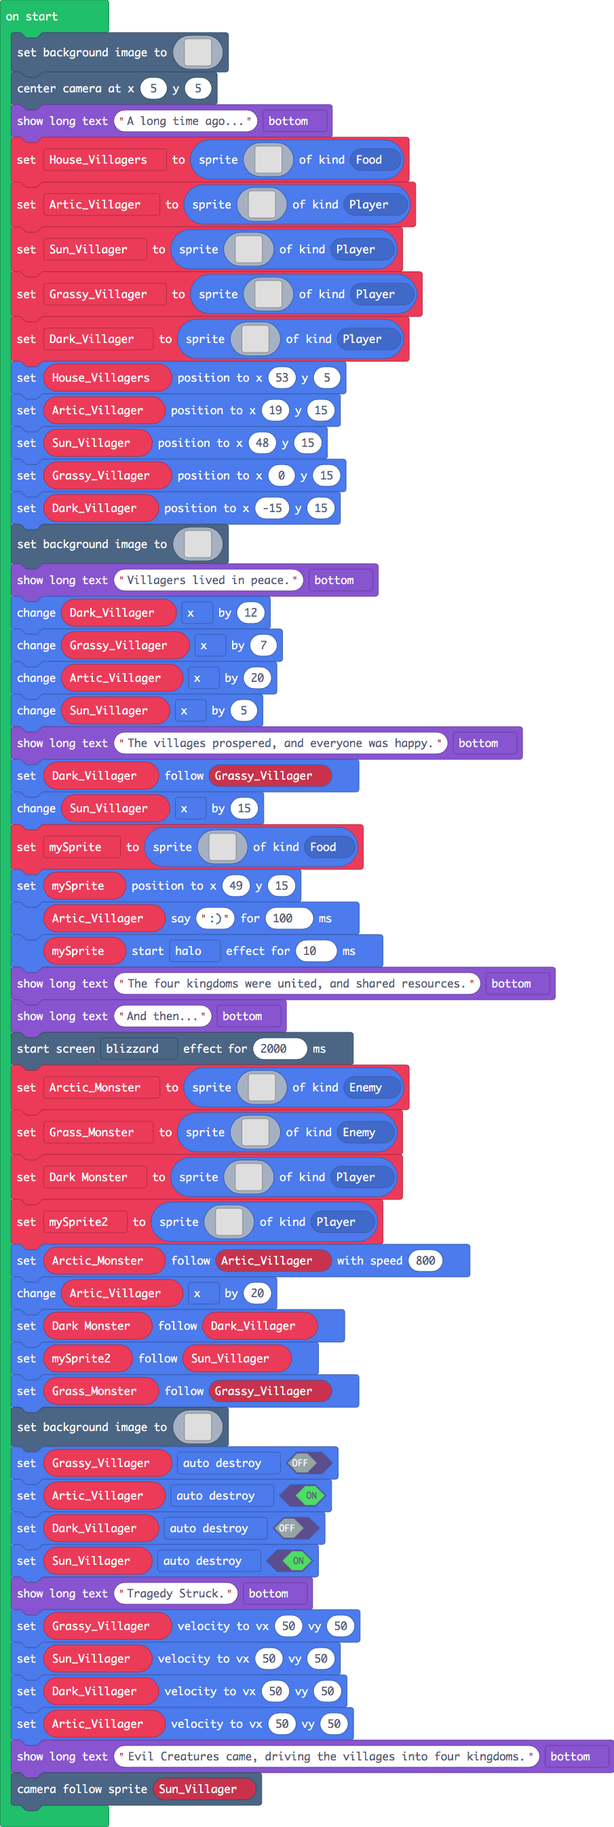
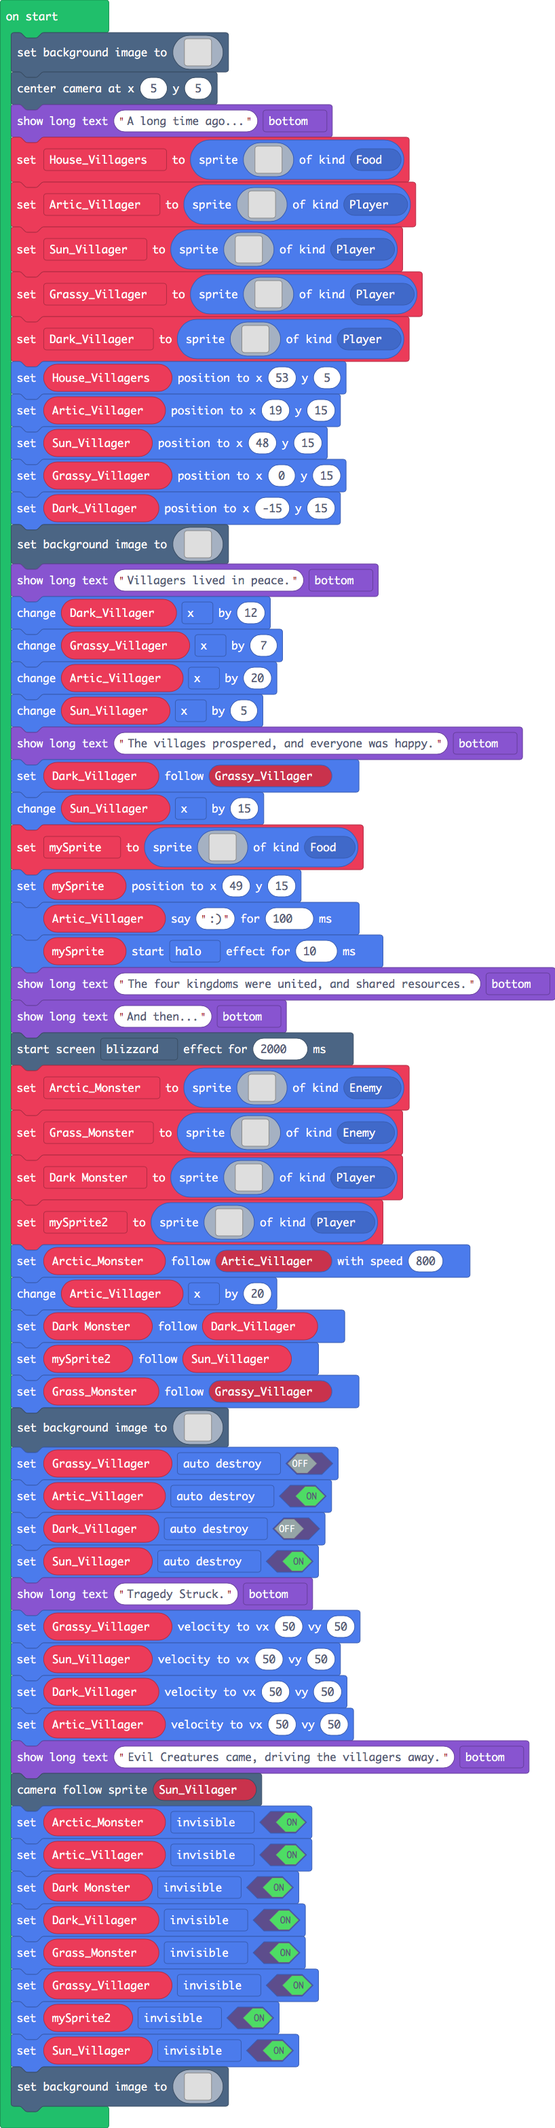
Update main.blocks, main.ts

diff --git a/main.ts b/main.ts
@@ -654,5 +654,135 @@ Grassy_Villager.setVelocity(50, 50)
 Sun_Villager.setVelocity(50, 50)
 Dark_Villager.setVelocity(50, 50)
 Artic_Villager.setVelocity(50, 50)
-game.showLongText("Evil Creatures came, driving the villages into four kingdoms.", DialogLayout.Bottom)
+game.showLongText("Evil Creatures came, driving the villagers away.", DialogLayout.Bottom)
 scene.cameraFollowSprite(Sun_Villager)
+Arctic_Monster.setFlag(SpriteFlag.Invisible, true)
+Artic_Villager.setFlag(SpriteFlag.Invisible, true)
+Dark_Monster.setFlag(SpriteFlag.Invisible, true)
+Dark_Villager.setFlag(SpriteFlag.Invisible, true)
+Grass_Monster.setFlag(SpriteFlag.Invisible, true)
+Grassy_Villager.setFlag(SpriteFlag.Invisible, true)
+mySprite2.setFlag(SpriteFlag.Invisible, true)
+Sun_Villager.setFlag(SpriteFlag.Invisible, true)
+scene.setBackgroundImage(img`
+. . . . . . . . . . . . . . . . . . . . . . . . . . . . . . . . . . . . . . . . . . . . . . . . . . . . . . . . . . . . . . . . . . . . . . . . . . . . . . . . . . . . . . . . . . . . . . . . . . . . . . . . . . . . . . . . . . . . . . . . . . . . . . . . . . . . . . . . . . . . . . . . . . . . . . . . . . . . . . . . 
+. . . . . . . . . . . . . . . . . . . . . . . . . . . . . . . . . . . . . . . . . . . . . . . . . . . . . . . . . . . . . . . . . . . . . . . . . . . . . . . . . . . . . . . . . . . . . . . . . . . . . . . . . . . . . . . . . . . . . . . . . . . . . . . . . . . . . . . . . . . . . . . . . . . . . . . . . . . . . . . . 
+. . . . . . . . . . . . . . . . . . . . . . . . . . . . . . . . . . . . . . . . . . . . . . . . . . . . . . . . . . . . . . . . . . . . . . . . . . . . . . . . . . . . . . . . . . . . . . . . . . . . . . . . . . . . . . . . . . . . . . . . . . . . . . . . . . . . . . . . . . . . . . . . . . . . . . . . . . . . . . . . 
+. . . . . . . . . . . . . . . . . . . . . . . . . . . . . . . . . . . . . . . . . . . . . . . . . . . . . . . . . . . . . . . . . . . . . . . . . . . . . . . . . . . . . . . . . . . . . . . . . . . . . . . . . . . . . . . . . . . . . . . . . . . . . . . . . . . . . . . . . . . . . . . . . . . . . . . . . . . . . . . . 
+. . . . . . . . . . . . . . . . . . . . . . . . . . . . . . . . . . . . . . . . . . . . . . . . . . . . . . . . . . . . . . . . . . . . . . . . . . . . . . . . . . . . . . . . . . . . . . . . . . . . . . . . . . . . . . . . . . . . . . . . . . . . . . . . . . . . . . . . . . . . . . . . . . . . . . . . . . . . . . . . 
+. . . . . . . . . . . . . . . . . . . . . . . . . . . . . . . . . . . . . . . . . . . . . . . . . . . . . . . . . . . . . . . . . . . . . . . . . . . . . . . . . . . . . . . . . . . . . . . . . . . . . . . . . . . . . . . . . . . . . . . . . . . . . . . . . . . . . . . . . . . . . . . . . . . . . . . . . . . . . . . . 
+. . . . . . . . . . . . . . . . . . . . . . . . . . . . . . . . . . . . . . . . . . . . . . . . . . . . . . . . . . . . . . . . . . . . . . . . . . . . . . . . . . . . . . . . . . . . . . . . . . . . . . . . . . . . . . . . . . . . . . . . . . . . . . . . . . . . . . . . . . . . . . . . . . . . . . . . . . . . . . . . 
+. . . . . . . . . . . . . . . . . . . . . . . . . . . . . . . . . . . . . . . . . . . . . . . . . . . . . . . . . . . . . . . . . . . . . . . . . . . . . . . . . . . . . . . . . . . . . . . . . . . . . . . . . . . . . . . . . . . . . . . . . . . . . . . . . . . . . . . . . . . . . . . . . . . . . . . . . . . . . . . . 
+. . . . . . . . . . . . . . . . . . . . . . . . . . . . . . . . . . . . . . . . . . . . . . . . . . . . . . . . . . . . . . . . . . . . . . . . . . . . . . . . . . . . . . . . . . . . . . . . . . . . . . . . . . . . . . . . . . . . . . . . . . . . . . . . . . . . . . . . . . . . . . . . . . . . . . . . . . . . . . . . 
+. . . . . . . . . . . . . . . . . . . . . . . . . . . . . . . . . . . . . . . . . . . . . . . . . . . . . . . . . . . . . . . . . . . . . . . . . . . . . . . . . . . . . . . . . . . . . . . . . . . . . . . . . . . . . . . . . . . . . . . . . . . . . . . . . . . . . . . . . . . . . . . . . . . . . . . . . . . . . . . . 
+. . . . . . . . . . . . . . . . . . . . . . . . . . . . . . . . . . . . . . . . . . . . . . . . . . . . . . . . . . . . . . . . . . . . . . . . . . . . . . . . . . . . . . . . . . . . . . . . . . . . . . . . . . . . . . . . . . . . . . . . . . . . . . . . . . . . . . . . . . . . . . . . . . . . . . . . . . . . . . . . 
+. . . . . . . . . . . . . . . . . . . . . . . . . . . . . . . . . . . . . . . . . . . . . . . . . . . . . . . . . . . . . . . . . . . . . . . . . . . . . . . . . . . . . . . . . . . . . . . . . . . . . . . . . . . . . . . . . . . . . . . . . . . . . . . . . . . . . . . . . . . . . . . . . . . . . . . . . . . . . . . . 
+. . . . . . . . . . . . . . . . . . . . . . . . . . . . . . . . . . . . . . . . . . . . . . . . . . . . . . . . . . . . . . . . . . . . . . . . . . . . . . . . . . . . . . . . . . . . . . . . . . . . . . . . . . . . . . . . . . . . . . . . . . . . . . . . . . . . . . . . . . . . . . . . . . . . . . . . . . . . . . . . 
+. . . . . . . . . . . . . . . . . . . . . . . . . . . . . . . . . . . . . . . . . . . . . . . . . . . . . . . . . . . . . . . . . . . . . . . . . . . . . . . . . . . . . . . . . . . . . . . . . . . . . . . . . . . . . . . . . . . . . . . . . . . . . . . . . . . . . . . . . . . . . . . . . . . . . . . . . . . . . . . . 
+. . . . . . . . . . . . . . . . . . . . . . . . . . . . . . . . . . . . . . . . . . . . . . . . . . . . . . . . . . . . . . . . . . . . . . . . . . . . . . . . . . . . . . . . . . . . . . . . . . . . . . . . . . . . . . . . . . . . . . . . . . . . . . . . . . . . . . . . . . . . . . . . . . . . . . . . . . . . . . . . 
+. . . . . . . . . . . . . . . . . . . . . . . . . . . . . . . . . . . . . . . . . . . . . . . . . . . . . . . . . . . . . . . . . . . . . . . . . . . . . . . . . . . . . . . . . . . . . . . . . . . . . . . . . . . . . . . . . . . . . . . . . . . . . . . . . . . . . . . . . . . . . . . . . . . . . . . . . . . . . . . . 
+. . . . . . . . . . . . . . . . . . . . . . . . . . . . . . . . . . . . . . . . . . . . . . . . . . . . . . . . . . . . . . . . . . . . . . . . . . . . . . . . . . . . . . . . . . . . . . . . . . . . . . . . . . . . . . . . . . . . . . . . . . . . . . . . . . . . . . . . . . . . . . . . . . . . . . . . . . . . . . . . 
+. . . . . . . . . . . . . . . . . . . . . . . . . . . . . . . . . . . . . . . . . . . . . . . . . . . . . . . . . . . . . . . . . . . . . . . . . . . . . . . . . . . . . . . . . . . . . . . . . . . . . . . . . . . . . . . . . . . . . . . . . . . . . . . . . . . . . . . . . . . . . . . . . . . . . . . . . . . . . . . . 
+. . . . . . . . . . . . . . . . . . . . . . . . . . . . . . . . . . . . . . . . . . . . . . . . . . . . . . . . . . . . . . . . . . . . . . . . . . . . . . . . . . . . . . . . . . . . . . . . . . . . . . . . . . . . . . . . . . . . . . . . . . . . . . . . . . . . . . . . . . . . . . . . . . . . . . . . . . . . . . . . 
+. . . . . . . . . . . . . . . . . . . . . . . . . . . . . . . . . . . . . . . . . . . . . . . . . . . . . . . . . . . . . . . . . . . . . . . . . . . . . . . . . . . . . . . . . . . . . . . . . . . . . . . . . . . . . . . . . . . . . . . . . . . . . . . . . . . . . . . . . . . . . . . . . . . . . . . . . . . . . . . . 
+. . . . . . . . . . . . . . . . . . . . . . . . . . . . . . . . . . . . . . . . . . . . . . . . . . . . . . . . . . . . . . . . . . . . . . . . . . . . . . . . . . . . . . . . . . . . . . . . . . . . . . . . . . . . . . . . . . . . . . . . . . . . . . . . . . . . . . . . . . . . . . . . . . . . . . . . . . . . . . . . 
+. . . . . . . . . . . . . . . . . . . . . . . . . . . . . . . . . . . . . . . . . . . . . . . . . . . . . . . . . . . . . . . . . . . . . . . . . . . . . . . . . . . . . . . . . . . . . . . . . . . . . . . . . . . . . . . . . . . . . . . . . . . . . . . . . . . . . . . . . . . . . . . . . . . . . . . . . . . . . . . . 
+. . . . . . . . . . . . . . . . . . . . . . . . . . . . . . . . . . . . . . . . . . . . . . . . . . . . . . . . . . . . . . . . . . . . . . . . . . . . . . . . . . . . . . . . . . . . . . . . . . . . . . . . . . . . . . . . . . . . . . . . . . . . . . . . . . . . . . . . . . . . . . . . . . . . . . . . . . . . . . . . 
+. . . . . . . . . . . . . . . . . . . . . . . . . . . . . . . . . . . . . . . . . . . . . . . . . . . . . . . . . . . . . . . . . . . . . . . . . . . . . . . . . . . . . . . . . . . . . . . . . . . . . . . . . . . . . . . . . . . . . . . . . . . . . . . . . . . . . . . . . . . . . . . . . . . . . . . . . . . . . . . . 
+. . . . . . . . . . . . . . . . . . . . . . . . . . . . . . . . . . . . . . . . . . . . . . . . . . . . . . . . . . . . . . . . . . . . . . . . . . . . . . . . . . . . . . . . . . . . . . . . . . . . . . . . . . . . . . . . . . . . . . . . . . . . . . . . . . . . . . . . . . . . . . . . . . . . . . . . . . . . . . . . 
+. . . . . . . . . . . . . . . . . . . . . . . . . . . . . . . . . . . . . . . . . . . . . . . . . . . . . . . . . . . . . . . . . . . . . . . . . . . . . . . . . . . . . . . . . . . . . . . . . . . . . . . . . . . . . . . . . . . . . . . . . . . . . . . . . . . . . . . . . . . . . . . . . . . . . . . . . . . . . . . . 
+. . . . . . . . . . . . . . . . . . . . . . . . . . . . . . . . . . . . . . . . . . . . . . . . . . . . . . . . . . . . . . . . . . . . . . . . . . . . . . . . . . . . . . . . . . . . . . . . . . . . . . . . . . . . . . . . . . . . . . . . . . . . . . . . . . . . . . . . . . . . . . . . . . . . . . . . . . . . . . . . 
+. . . . . . . . . . . . . . . . . . . . . . . . . . . . . . . . . . . . . . . . . . . . . . . . . . . . . . . . . . . . . . . . . . . . . . . . . . . . . . . . . . . . . . . . . . . . . . . . . . . . . . . . . . . . . . . . . . . . . . . . . . . . . . . . . . . . . . . . . . . . . . . . . . . . . . . . . . . . . . . . 
+. . . . . . . . . . . . . . . . . . . . . . . . . . . . . . . . . . . . . . . . . . . . . . . . . . . . . . . . . . . . . . . . . . . . . . . . . . . . . . . . . . . . . . . . . . . . . . . . . . . . . . . . . . . . . . . . . . . . . . . . . . . . . . . . . . . . . . . . . . . . . . . . . . . . . . . . . . . . . . . . 
+. . . . . . . . . . . . . . . . . . . . . . . . . . . . . . . . . . . . . . . . . . . . . . . . . . . . . . . . . . . . . . . . . . . . . . . . . . . . . . . . . . . . . . . . . . . . . . . . . . . . . . . . . . . . . . . . . . . . . . . . . . . . . . . . . . . . . . . . . . . . . . . . . . . . . . . . . . . . . . . . 
+. . . . . . . . . . . . . . . . . . . . . . . . . . . . . . . . . . . . . . . . . . . . . . . . . . . . . . . . . . . . . . . . . . . . . . . . . . . . . . . . . . . . . . . . . . . . . . . . . . . . . . . . . . . . . . . . . . . . . . . . . . . . . . . . . . . . . . . . . . . . . . . . . . . . . . . . . . . . . . . . 
+. . . . . . . . . . . . . . . . . . . . . . . . . . . . . . . . . . . . . . . . . . . . . . . . . . . . . . . . . . . . . . . . . . . . . . . . . . . . . . . . . . . . . . . . . . . . . . . . . . . . . . . . . . . . . . . . . . . . . . . . . . . . . . . . . . . . . . . . . . . . . . . . . . . . . . . . . . . . . . . . 
+. . . . . . . . . . . . . . . . . . . . . . . . . . . . . . . . . . . . . . . . . . . . . . . . . . . . . . . . . . . . . . . . . . . . . . . . . . . . . . . . . . . . . . . . . . . . . . . . . . . . . . . . . . . . . . . . . . . . . . . . . . . . . . . . . . . . . . . . . . . . . . . . . . . . . . . . . . . . . . . . 
+. . . . . . . . . . . . . . . . . . . . . . . . . . . . . . . . . . . . . . . . . . . . . . . . . . . . . . . . . . . . . . . . . . . . . . . . . . . . . . . . . . . . . . . . . . . . . . . . . . . . . . . . . . . . . . . . . . . . . . . . . . . . . . . . . . . . . . . . . . . . . . . . . . . . . . . . . . . . . . . . 
+. . . . . . . . . . . . . . . . . . . . . . . . . . . . . . . . . . . . . . . . . . . . . . . . . . . . . . . . . . . . . . . . . . . . . . . . . . . . . . . . . . . . . . . . . . . . . . . . . . . . . . . . . . . . . . . . . . . . . . . . . . . . . . . . . . . . . . . . . . . . . . . . . . . . . . . . . . . . . . . . 
+. . . . . . . . . . . . . . . . . . . . . . . . . . . . . . . . . . . . . . . . . . . . . . . . . . . . . . . . . . . . . . . . . . . . . . . . . . . . . . . . . . . . . . . . . . . . . . . . . . . . . . . . . . . . . . . . . . . . . . . . . . . . . . . . . . . . . . . . . . . . . . . . . . . . . . . . . . . . . . . . 
+. . . . . . . . . . . . . . . . . . . . . . . . . . . . . . . . . . . . . . . . . . . . . . . . . . . . . . . . . . . . . . . . . . . . . . . . . . . . . . . . . . . . . . . . . . . . . . . . . . . . . . . . . . . . . . . . . . . . . . . . . . . . . . . . . . . . . . . . . . . . . . . . . . . . . . . . . . . . . . . . 
+. . . . . . . . . . . . . . . . . . . . . . . . . . . . . . . . . . . . . . . . . . . . . . . . . . . . . . . . . . . . . . . . . . . . . . . . . . . . . . . . . . . . . . . . . . . . . . . . . . . . . . . . . . . . . . . . . . . . . . . . . . . . . . . . . . . . . . . . . . . . . . . . . . . . . . . . . . . . . . . . 
+. . . . . . . . . . . . . . . . . . . . . . . . . . . . . . . . . . . . . . . . . . . . . . . . . . . . . . . . . . . . . . . . . . . . . . . . . . . . . . . . . . . . . . . . . . . . . . . . . . . . . . . . . . . . . . . . . . . . . . . . . . . . . . . . . . . . . . . . . . . . . . . . . . . . . . . . . . . . . . . . 
+. . . . . . . . . . . . . . . . . . . . . . . . . . . . . . . . . . . . . . . . . . . . . . . . . . . . . . . . . . . . . . . . . . . . . . . . . . . . . . . . . . . . . . . . . . . . . . . . . . . . . . . . . . . . . . . . . . . . . . . . . . . . . . . . . . . . . . . . . . . . . . . . . . . . . . . . . . . . . . . . 
+. . . . . . . . . . . . . . . . . . . . . . . . . . . . . . . . . . . . . . . . . . . . . . . . . . . . . . . . . . . . . . . . . . . . . . . . . . . . . . . . . . . . . . . . . . . . . . . . . . . . . . . . . . . . . . . . . . . . . . . . . . . . . . . . . . . . . . . . . . . . . . . . . . . . . . . . . . . . . . . . 
+. . . . . . . . . . . . . . . . . . . . . . . . . . . . . . . . . . . . . . . . . . . . . . . . . . . . . . . . . . . . . . . . . . . . . . . . . . . . . . . . . . . . . . . . . . . . . . . . . . . . . . . . . . . . . . . . . . . . . . . . . . . . . . . . . . . . . . . . . . . . . . . . . . . . . . . . . . . . . . . . 
+. . . . . . . . . . . . . . . . . . . . . . . . . . . . . . . . . . . . . . . . . . . . . . . . . . . . . . . . . . . . . . . . . . . . . . . . . . . . . . . . . . . . . . . . . . . . . . . . . . . . . . . . . . . . . . . . . . . . . . . . . . . . . . . . . . . . . . . . . . . . . . . . . . . . . . . . . . . . . . . . 
+. . . . . . . . . . . . . . . . . . . . . . . . . . . . . . . . . . . . . . . . . . . . . . . . . . . . . . . . . . . . . . . . . . . . . . . . . . . . . . . . . . . . . . . . . . . . . . . . . . . . . . . . . . . . . . . . . . . . . . . . . . . . . . . . . . . . . . . . . . . . . . . . . . . . . . . . . . . . . . . . 
+. . . . . . . . . . . . . . . . . . . . . . . . . . . . . . . . . . . . . . . . . . . . . . . . . . . . . . . . . . . . . . . . . . . . . . . . . . . . . . . . . . . . . . . . . . . . . . . . . . . . . . . . . . . . . . . . . . . . . . . . . . . . . . . . . . . . . . . . . . . . . . . . . . . . . . . . . . . . . . . . 
+. . . . . . . . . . . . . . . . . . . . . . . . . . . . . . . . . . . . . . . . . . . . . . . . . . . . . . . . . . . . . . . . . . . . . . . . . . . . . . . . . . . . . . . . . . . . . . . . . . . . . . . . . . . . . . . . . . . . . . . . . . . . . . . . . . . . . . . . . . . . . . . . . . . . . . . . . . . . . . . . 
+. . . . . . . . . . . . . . . . . . . . . . . . . . . . . . . . . . . . . . . . . . . . . . . . . . . . . . . . . . . . . . . . . . . . . . . . . . . . . . . . . . . . . . . . . . . . . . . . . . . . . . . . . . . . . . . . . . . . . . . . . . . . . . . . . . . . . . . . . . . . . . . . . . . . . . . . . . . . . . . . 
+. . . . . . . . . . . . . . . . . . . . . . . . . . . . . . . . . . . . . . . . . . . . . . . . . . . . . . . . . . . . . . . . . . . . . . . . . . . . . . . . . . . . . . . . . . . . . . . . . . . . . . . . . . . . . . . . . . . . . . . . . . . . . . . . . . . . . . . . . . . . . . . . . . . . . . . . . . . . . . . . 
+. . . . . . . . . . . . . . . . . . . . . . . . . . . . . . . . . . . . . . . . . . . . . . . . . . . . . . . . . . . . . . . . . . . . . . . . . . . . . . . . . . . . . . . . . . . . . . . . . . . . . . . . . . . . . . . . . . . . . . . . . . . . . . . . . . . . . . . . . . . . . . . . . . . . . . . . . . . . . . . . 
+. . . . . . . . . . . . . . . . . . . . . . . . . . . . . . . . . . . . . . . . . . . . . . . . . . . . . . . . . . . . . . . . . . . . . . . . . . . . . . . . . . . . . . . . . . . . . . . . . . . . . . . . . . . . . . . . . . . . . . . . . . . . . . . . . . . . . . . . . . . . . . . . . . . . . . . . . . . . . . . . 
+. . . . . . . . . . . . . . . . . . . . . . . . . . . . . . . . . . . . . . . . . . . . . . . . . . . . . . . . . . . . . . . . . . . . . . . . . . . . . . . . . . . . . . . . . . . . . . . . . . . . . . . . . . . . . . . . . . . . . . . . . . . . . . . . . . . . . . . . . . . . . . . . . . . . . . . . . . . . . . . . 
+. . . . . . . . . . . . . . . . . . . . . . . . . . . . . . . . . . . . . . . . . . . . . . . . . . . . . . . . . . . . . . . . . . . . . . . . . . . . . . . . . . . . . . . . . . . . . . . . . . . . . . . . . . . . . . . . . . . . . . . . . . . . . . . . . . . . . . . . . . . . . . . . . . . . . . . . . . . . . . . . 
+. . . . . . . . . . . . . . . . . . . . . . . . . . . . . . . . . . . . . . . . . . . . . . . . . . . . . . . . . . . . . . . . . . . . . . . . . . . . . . . . . . . . . . . . . . . . . . . . . . . . . . . . . . . . . . . . . . . . . . . . . . . . . . . . . . . . . . . . . . . . . . . . . . . . . . . . . . . . . . . . 
+. . . . . . . . . . . . . . . . . . . . . . . . . . . . . . . . . . . . . . . . . . . . . . . . . . . . . . . . . . . . . . . . . . . . . . . . . . . . . . . . . . . . . . . . . . . . . . . . . . . . . . . . . . . . . . . . . . . . . . . . . . . . . . . . . . . . . . . . . . . . . . . . . . . . . . . . . . . . . . . . 
+. . . . . . . . . . . . . . . . . . . . . . . . . . . . . . . . . . . . . . . . . . . . . . . . . . . . . . . . . . . . . . . . . . . . . . . . . . . . . . . . . . . . . . . . . . . . . . . . . . . . . . . . . . . . . . . . . . . . . . . . . . . . . . . . . . . . . . . . . . . . . . . . . . . . . . . . . . . . . . . . 
+. . . . . . . . . . . . . . . . . . . . . . . . . . . . . . . . . . . . . . . . . . . . . . . . . . . . . . . . . . . . . . . . . . . . . . . . . . . . . . . . . . . . . . . . . . . . . . . . . . . . . . . . . . . . . . . . . . . . . . . . . . . . . . . . . . . . . . . . . . . . . . . . . . . . . . . . . . . . . . . . 
+. . . . . . . . . . . . . . . . . . . . . . . . . . . . . . . . . . . . . . . . . . . . . . . . . . . . . . . . . . . . . . . . . . . . . . . . . . . . . . . . . . . . . . . . . . . . . . . . . . . . . . . . . . . . . . . . . . . . . . . . . . . . . . . . . . . . . . . . . . . . . . . . . . . . . . . . . . . . . . . . 
+. . . . . . . . . . . . . . . . . . . . . . . . . . . . . . . . . . . . . . . . . . . . . . . . . . . . . . . . . . . . . . . . . . . . . . . . . . . . . . . . . . . . . . . . . . . . . . . . . . . . . . . . . . . . . . . . . . . . . . . . . . . . . . . . . . . . . . . . . . . . . . . . . . . . . . . . . . . . . . . . 
+. . . . . . . . . . . . . . . . . . . . . . . . . . . . . . . . . . . . . . . . . . . . . . . . . . . . . . . . . . . . . . . . . . . . . . . . . . . . . . . . . . . . . . . . . . . . . . . . . . . . . . . . . . . . . . . . . . . . . . . . . . . . . . . . . . . . . . . . . . . . . . . . . . . . . . . . . . . . . . . . 
+. . . . . . . . . . . . . . . . . . . . . . . . . . . . . . . . . . . . . . . . . . . . . . . . . . . . . . . . . . . . . . . . . . . . . . . . . . . . . . . . . . . . . . . . . . . . . . . . . . . . . . . . . . . . . . . . . . . . . . . . . . . . . . . . . . . . . . . . . . . . . . . . . . . . . . . . . . . . . . . . 
+. . . . . . . . . . . . . . . . . . . . . . . . . . . . . . . . . . . . . . . . . . . . . . . . . . . . . . . . . . . . . . . . . . . . . . . . . . . . . . . . . . . . . . . . . . . . . . . . . . . . . . . . . . . . . . . . . . . . . . . . . . . . . . . . . . . . . . . . . . . . . . . . . . . . . . . . . . . . . . . . 
+. . . . . . . . . . . . . . . . . . . . . . . . . . . . . . . . . . . . . . . . . . . . . . . . . . . . . . . . . . . . . . . . . . . . . . . . . . . . . . . . . . . . . . . . . . . . . . . . . . . . . . . . . . . . . . . . . . . . . . . . . . . . . . . . . . . . . . . . . . . . . . . . . . . . . . . . . . . . . . . . 
+. . . . . . . . . . . . . . . . . . . . . . . . . . . . . . . . . . . . . . . . . . . . . . . . . . . . . . . . . . . . . . . . . . . . . . . . . . . . . . . . . . . . . . . . . . . . . . . . . . . . . . . . . . . . . . . . . . . . . . . . . . . . . . . . . . . . . . . . . . . . . . . . . . . . . . . . . . . . . . . . 
+. . . . . . . . . . . . . . . . . . . . . . . . . . . . . . . . . . . . . . . . . . . . . . . . . . . . . . . . . . . . . . . . . . . . . . . . . . . . . . . . . . . . . . . . . . . . . . . . . . . . . . . . . . . . . . . . . . . . . . . . . . . . . . . . . . . . . . . . . . . . . . . . . . . . . . . . . . . . . . . . 
+. . . . . . . . . . . . . . . . . . . . . . . . . . . . . . . . . . . . . . . . . . . . . . . . . . . . . . . . . . . . . . . . . . . . . . . . . . . . . . . . . . . . . . . . . . . . . . . . . . . . . . . . . . . . . . . . . . . . . . . . . . . . . . . . . . . . . . . . . . . . . . . . . . . . . . . . . . . . . . . . 
+. . . . . . . . . . . . . . . . . . . . . . . . . . . . . . . . . . . . . . . . . . . . . . . . . . . . . . . . . . . . . . . . . . . . . . . . . . . . . . . . . . . . . . . . . . . . . . . . . . . . . . . . . . . . . . . . . . . . . . . . . . . . . . . . . . . . . . . . . . . . . . . . . . . . . . . . . . . . . . . . 
+. . . . . . . . . . . . . . . . . . . . . . . . . . . . . . . . . . . . . . . . . . . . . . . . . . . . . . . . . . . . . . . . . . . . . . . . . . . . . . . . . . . . . . . . . . . . . . . . . . . . . . . . . . . . . . . . . . . . . . . . . . . . . . . . . . . . . . . . . . . . . . . . . . . . . . . . . . . . . . . . 
+. . . . . . . . . . . . . . . . . . . . . . . . . . . . . . . . . . . . . . . . . . . . . . . . . . . . . . . . . . . . . . . . . . . . . . . . . . . . . . . . . . . . . . . . . . . . . . . . . . . . . . . . . . . . . . . . . . . . . . . . . . . . . . . . . . . . . . . . . . . . . . . . . . . . . . . . . . . . . . . . 
+. . . . . . . . . . . . . . . . . . . . . . . . . . . . . . . . . . . . . . . . . . . . . . . . . . . . . . . . . . . . . . . . . . . . . . . . . . . . . . . . . . . . . . . . . . . . . . . . . . . . . . . . . . . . . . . . . . . . . . . . . . . . . . . . . . . . . . . . . . . . . . . . . . . . . . . . . . . . . . . . 
+. . . . . . . . . . . . . . . . . . . . . . . . . . . . . . . . . . . . . . . . . . . . . . . . . . . . . . . . . . . . . . . . . . . . . . . . . . . . . . . . . . . . . . . . . . . . . . . . . . . . . . . . . . . . . . . . . . . . . . . . . . . . . . . . . . . . . . . . . . . . . . . . . . . . . . . . . . . . . . . . 
+. . . . . . . . . . . . . . . . . . . . . . . . . . . . . . . . . . . . . . . . . . . . . . . . . . . . . . . . . . . . . . . . . . . . . . . . . . . . . . . . . . . . . . . . . . . . . . . . . . . . . . . . . . . . . . . . . . . . . . . . . . . . . . . . . . . . . . . . . . . . . . . . . . . . . . . . . . . . . . . . 
+. . . . . . . . . . . . . . . . . . . . . . . . . . . . . . . . . . . . . . . . . . . . . . . . . . . . . . . . . . . . . . . . . . . . . . . . . . . . . . . . . . . . . . . . . . . . . . . . . . . . . . . . . . . . . . . . . . . . . . . . . . . . . . . . . . . . . . . . . . . . . . . . . . . . . . . . . . . . . . . . 
+. . . . . . . . . . . . . . . . . . . . . . . . . . . . . . . . . . . . . . . . . . . . . . . . . . . . . . . . . . . . . . . . . . . . . . . . . . . . . . . . . . . . . . . . . . . . . . . . . . . . . . . . . . . . . . . . . . . . . . . . . . . . . . . . . . . . . . . . . . . . . . . . . . . . . . . . . . . . . . . . 
+. . . . . . . . . . . . . . . . . . . . . . . . . . . . . . . . . . . . . . . . . . . . . . . . . . . . . . . . . . . . . . . . . . . . . . . . . . . . . . . . . . . . . . . . . . . . . . . . . . . . . . . . . . . . . . . . . . . . . . . . . . . . . . . . . . . . . . . . . . . . . . . . . . . . . . . . . . . . . . . . 
+. . . . . . . . . . . . . . . . . . . . . . . . . . . . . . . . . . . . . . . . . . . . . . . . . . . . . . . . . . . . . . . . . . . . . . . . . . . . . . . . . . . . . . . . . . . . . . . . . . . . . . . . . . . . . . . . . . . . . . . . . . . . . . . . . . . . . . . . . . . . . . . . . . . . . . . . . . . . . . . . 
+. . . . . . . . . . . . . . . . . . . . . . . . . . . . . . . . . . . . . . . . . . . . . . . . . . . . . . . . . . . . . . . . . . . . . . . . . . . . . . . . . . . . . . . . . . . . . . . . . . . . . . . . . . . . . . . . . . . . . . . . . . . . . . . . . . . . . . . . . . . . . . . . . . . . . . . . . . . . . . . . 
+. . . . . . . . . . . . . . . . . . . . . . . . . . . . . . . . . . . . . . . . . . . . . . . . . . . . . . . . . . . . . . . . . . . . . . . . . . . . . . . . . . . . . . . . . . . . . . . . . . . . . . . . . . . . . . . . . . . . . . . . . . . . . . . . . . . . . . . . . . . . . . . . . . . . . . . . . . . . . . . . 
+. . . . . . . . . . . . . . . . . . . . . . . . . . . . . . . . . . . . . . . . . . . . . . . . . . . . . . . . . . . . . . . . . . . . . . . . . . . . . . . . . . . . . . . . . . . . . . . . . . . . . . . . . . . . . . . . . . . . . . . . . . . . . . . . . . . . . . . . . . . . . . . . . . . . . . . . . . . . . . . . 
+. . . . . . . . . . . . . . . . . . . . . . . . . . . . . . . . . . . . . . . . . . . . . . . . . . . . . . . . . . . . . . . . . . . . . . . . . . . . . . . . . . . . . . . . . . . . . . . . . . . . . . . . . . . . . . . . . . . . . . . . . . . . . . . . . . . . . . . . . . . . . . . . . . . . . . . . . . . . . . . . 
+. . . . . . . . . . . . . . . . . . . . . . . . . . . . . . . . . . . . . . . . . . . . . . . . . . . . . . . . . . . . . . . . . . . . . . . . . . . . . . . . . . . . . . . . . . . . . . . . . . . . . . . . . . . . . . . . . . . . . . . . . . . . . . . . . . . . . . . . . . . . . . . . . . . . . . . . . . . . . . . . 
+. . . . . . . . . . . . . . . . . . . . . . . . . . . . . . . . . . . . . . . . . . . . . . . . . . . . . . . . . . . . . . . . . . . . . . . . . . . . . . . . . . . . . . . . . . . . . . . . . . . . . . . . . . . . . . . . . . . . . . . . . . . . . . . . . . . . . . . . . . . . . . . . . . . . . . . . . . . . . . . . 
+. . . . . . . . . . . . . . . . . . . . . . . . . . . . . . . . . . . . . . . . . . . . . . . . . . . . . . . . . . . . . . . . . . . . . . . . . . . . . . . . . . . . . . . . . . . . . . . . . . . . . . . . . . . . . . . . . . . . . . . . . . . . . . . . . . . . . . . . . . . . . . . . . . . . . . . . . . . . . . . . 
+. . . . . . . . . . . . . . . . . . . . . . . . . . . . . . . . . . . . . . . . . . . . . . . . . . . . . . . . . . . . . . . . . . . . . . . . . . . . . . . . . . . . . . . . . . . . . . . . . . . . . . . . . . . . . . . . . . . . . . . . . . . . . . . . . . . . . . . . . . . . . . . . . . . . . . . . . . . . . . . . 
+. . . . . . . . . . . . . . . . . . . . . . . . . . . . . . . . . . . . . . . . . . . . . . . . . . . . . . . . . . . . . . . . . . . . . . . . . . . . . . . . . . . . . . . . . . . . . . . . . . . . . . . . . . . . . . . . . . . . . . . . . . . . . . . . . . . . . . . . . . . . . . . . . . . . . . . . . . . . . . . . 
+. . . . . . . . . . . . . . . . . . . . . . . . . . . . . . . . . . . . . . . . . . . . . . . . . . . . . . . . . . . . . . . . . . . . . . . . . . . . . . . . . . . . . . . . . . . . . . . . . . . . . . . . . . . . . . . . . . . . . . . . . . . . . . . . . . . . . . . . . . . . . . . . . . . . . . . . . . . . . . . . 
+. . . . . . . . . . . . . . . . . . . . . . . . . . . . . . . . . . . . . . . . . . . . . . . . . . . . . . . . . . . . . . . . . . . . . . . . . . . . . . . . . . . . . . . . . . . . . . . . . . . . . . . . . . . . . . . . . . . . . . . . . . . . . . . . . . . . . . . . . . . . . . . . . . . . . . . . . . . . . . . . 
+. . . . . . . . . . . . . . . . . . . . . . . . . . . . . . . . . . . . . . . . . . . . . . . . . . . . . . . . . . . . . . . . . . . . . . . . . . . . . . . . . . . . . . . . . . . . . . . . . . . . . . . . . . . . . . . . . . . . . . . . . . . . . . . . . . . . . . . . . . . . . . . . . . . . . . . . . . . . . . . . 
+. . . . . . . . . . . . . . . . . . . . . . . . . . . . . . . . . . . . . . . . . . . . . . . . . . . . . . . . . . . . . . . . . . . . . . . . . . . . . . . . . . . . . . . . . . . . . . . . . . . . . . . . . . . . . . . . . . . . . . . . . . . . . . . . . . . . . . . . . . . . . . . . . . . . . . . . . . . . . . . . 
+. . . . . . . . . . . . . . . . . . . . . . . . . . . . . . . . . . . . . . . . . . . . . . . . . . . . . . . . . . . . . . . . . . . . . . . . . . . . . . . . . . . . . . . . . . . . . . . . . . . . . . . . . . . . . . . . . . . . . . . . . . . . . . . . . . . . . . . . . . . . . . . . . . . . . . . . . . . . . . . . 
+. . . . . . . . . . . . . . . . . . . . . . . . . . . . . . . . . . . . . . . . . . . . . . . . . . . . . . . . . . . . . . . . . . . . . . . . . . . . . . . . . . . . . . . . . . . . . . . . . . . . . . . . . . . . . . . . . . . . . . . . . . . . . . . . . . . . . . . . . . . . . . . . . . . . . . . . . . . . . . . . 
+. . . . . . . . . . . . . . . . . . . . . . . . . . . . . . . . . . . . . . . . . . . . . . . . . . . . . . . . . . . . . . . . . . . . . . . . . . . . . . . . . . . . . . . . . . . . . . . . . . . . . . . . . . . . . . . . . . . . . . . . . . . . . . . . . . . . . . . . . . . . . . . . . . . . . . . . . . . . . . . . 
+. . . . . . . . . . . . . . . . . . . . . . . . . . . . . . . . . . . . . . . . . . . . . . . . . . . . . . . . . . . . . . . . . . . . . . . . . . . . . . . . . . . . . . . . . . . . . . . . . . . . . . . . . . . . . . . . . . . . . . . . . . . . . . . . . . . . . . . . . . . . . . . . . . . . . . . . . . . . . . . . 
+. . . . . . . . . . . . . . . . . . . . . . . . . . . . . . . . . . . . . . . . . . . . . . . . . . . . . . . . . . . . . . . . . . . . . . . . . . . . . . . . . . . . . . . . . . . . . . . . . . . . . . . . . . . . . . . . . . . . . . . . . . . . . . . . . . . . . . . . . . . . . . . . . . . . . . . . . . . . . . . . 
+. . . . . . . . . . . . . . . . . . . . . . . . . . . . . . . . . . . . . . . . . . . . . . . . . . . . . . . . . . . . . . . . . . . . . . . . . . . . . . . . . . . . . . . . . . . . . . . . . . . . . . . . . . . . . . . . . . . . . . . . . . . . . . . . . . . . . . . . . . . . . . . . . . . . . . . . . . . . . . . . 
+. . . . . . . . . . . . . . . . . . . . . . . . . . . . . . . . . . . . . . . . . . . . . . . . . . . . . . . . . . . . . . . . . . . . . . . . . . . . . . . . . . . . . . . . . . . . . . . . . . . . . . . . . . . . . . . . . . . . . . . . . . . . . . . . . . . . . . . . . . . . . . . . . . . . . . . . . . . . . . . . 
+. . . . . . . . . . . . . . . . . . . . . . . . . . . . . . . . . . . . . . . . . . . . . . . . . . . . . . . . . . . . . . . . . . . . . . . . . . . . . . . . . . . . . . . . . . . . . . . . . . . . . . . . . . . . . . . . . . . . . . . . . . . . . . . . . . . . . . . . . . . . . . . . . . . . . . . . . . . . . . . . 
+. . . . . . . . . . . . . . . . . . . . . . . . . . . . . . . . . . . . . . . . . . . . . . . . . . . . . . . . . . . . . . . . . . . . . . . . . . . . . . . . . . . . . . . . . . . . . . . . . . . . . . . . . . . . . . . . . . . . . . . . . . . . . . . . . . . . . . . . . . . . . . . . . . . . . . . . . . . . . . . . 
+. . . . . . . . . . . . . . . . . . . . . . . . . . . . . . . . . . . . . . . . . . . . . . . . . . . . . . . . . . . . . . . . . . . . . . . . . . . . . . . . . . . . . . . . . . . . . . . . . . . . . . . . . . . . . . . . . . . . . . . . . . . . . . . . . . . . . . . . . . . . . . . . . . . . . . . . . . . . . . . . 
+. . . . . . . . . . . . . . . . . . . . . . . . . . . . . . . . . . . . . . . . . . . . . . . . . . . . . . . . . . . . . . . . . . . . . . . . . . . . . . . . . . . . . . . . . . . . . . . . . . . . . . . . . . . . . . . . . . . . . . . . . . . . . . . . . . . . . . . . . . . . . . . . . . . . . . . . . . . . . . . . 
+. . . . . . . . . . . . . . . . . . . . . . . . . . . . . . . . . . . . . . . . . . . . . . . . . . . . . . . . . . . . . . . . . . . . . . . . . . . . . . . . . . . . . . . . . . . . . . . . . . . . . . . . . . . . . . . . . . . . . . . . . . . . . . . . . . . . . . . . . . . . . . . . . . . . . . . . . . . . . . . . 
+. . . . . . . . . . . . . . . . . . . . . . . . . . . . . . . . . . . . . . . . . . . . . . . . . . . . . . . . . . . . . . . . . . . . . . . . . . . . . . . . . . . . . . . . . . . . . . . . . . . . . . . . . . . . . . . . . . . . . . . . . . . . . . . . . . . . . . . . . . . . . . . . . . . . . . . . . . . . . . . . 
+. . . . . . . . . . . . . . . . . . . . . . . . . . . . . . . . . . . . . . . . . . . . . . . . . . . . . . . . . . . . . . . . . . . . . . . . . . . . . . . . . . . . . . . . . . . . . . . . . . . . . . . . . . . . . . . . . . . . . . . . . . . . . . . . . . . . . . . . . . . . . . . . . . . . . . . . . . . . . . . . 
+. . . . . . . . . . . . . . . . . . . . . . . . . . . . . . . . . . . . . . . . . . . . . . . . . . . . . . . . . . . . . . . . . . . . . . . . . . . . . . . . . . . . . . . . . . . . . . . . . . . . . . . . . . . . . . . . . . . . . . . . . . . . . . . . . . . . . . . . . . . . . . . . . . . . . . . . . . . . . . . . 
+. . . . . . . . . . . . . . . . . . . . . . . . . . . . . . . . . . . . . . . . . . . . . . . . . . . . . . . . . . . . . . . . . . . . . . . . . . . . . . . . . . . . . . . . . . . . . . . . . . . . . . . . . . . . . . . . . . . . . . . . . . . . . . . . . . . . . . . . . . . . . . . . . . . . . . . . . . . . . . . . 
+. . . . . . . . . . . . . . . . . . . . . . . . . . . . . . . . . . . . . . . . . . . . . . . . . . . . . . . . . . . . . . . . . . . . . . . . . . . . . . . . . . . . . . . . . . . . . . . . . . . . . . . . . . . . . . . . . . . . . . . . . . . . . . . . . . . . . . . . . . . . . . . . . . . . . . . . . . . . . . . . 
+. . . . . . . . . . . . . . . . . . . . . . . . . . . . . . . . . . . . . . . . . . . . . . . . . . . . . . . . . . . . . . . . . . . . . . . . . . . . . . . . . . . . . . . . . . . . . . . . . . . . . . . . . . . . . . . . . . . . . . . . . . . . . . . . . . . . . . . . . . . . . . . . . . . . . . . . . . . . . . . . 
+. . . . . . . . . . . . . . . . . . . . . . . . . . . . . . . . . . . . . . . . . . . . . . . . . . . . . . . . . . . . . . . . . . . . . . . . . . . . . . . . . . . . . . . . . . . . . . . . . . . . . . . . . . . . . . . . . . . . . . . . . . . . . . . . . . . . . . . . . . . . . . . . . . . . . . . . . . . . . . . . 
+. . . . . . . . . . . . . . . . . . . . . . . . . . . . . . . . . . . . . . . . . . . . . . . . . . . . . . . . . . . . . . . . . . . . . . . . . . . . . . . . . . . . . . . . . . . . . . . . . . . . . . . . . . . . . . . . . . . . . . . . . . . . . . . . . . . . . . . . . . . . . . . . . . . . . . . . . . . . . . . . 
+. . . . . . . . . . . . . . . . . . . . . . . . . . . . . . . . . . . . . . . . . . . . . . . . . . . . . . . . . . . . . . . . . . . . . . . . . . . . . . . . . . . . . . . . . . . . . . . . . . . . . . . . . . . . . . . . . . . . . . . . . . . . . . . . . . . . . . . . . . . . . . . . . . . . . . . . . . . . . . . . 
+. . . . . . . . . . . . . . . . . . . . . . . . . . . . . . . . . . . . . . . . . . . . . . . . . . . . . . . . . . . . . . . . . . . . . . . . . . . . . . . . . . . . . . . . . . . . . . . . . . . . . . . . . . . . . . . . . . . . . . . . . . . . . . . . . . . . . . . . . . . . . . . . . . . . . . . . . . . . . . . . 
+. . . . . . . . . . . . . . . . . . . . . . . . . . . . . . . . . . . . . . . . . . . . . . . . . . . . . . . . . . . . . . . . . . . . . . . . . . . . . . . . . . . . . . . . . . . . . . . . . . . . . . . . . . . . . . . . . . . . . . . . . . . . . . . . . . . . . . . . . . . . . . . . . . . . . . . . . . . . . . . . 
+. . . . . . . . . . . . . . . . . . . . . . . . . . . . . . . . . . . . . . . . . . . . . . . . . . . . . . . . . . . . . . . . . . . . . . . . . . . . . . . . . . . . . . . . . . . . . . . . . . . . . . . . . . . . . . . . . . . . . . . . . . . . . . . . . . . . . . . . . . . . . . . . . . . . . . . . . . . . . . . . 
+. . . . . . . . . . . . . . . . . . . . . . . . . . . . . . . . . . . . . . . . . . . . . . . . . . . . . . . . . . . . . . . . . . . . . . . . . . . . . . . . . . . . . . . . . . . . . . . . . . . . . . . . . . . . . . . . . . . . . . . . . . . . . . . . . . . . . . . . . . . . . . . . . . . . . . . . . . . . . . . . 
+. . . . . . . . . . . . . . . . . . . . . . . . . . . . . . . . . . . . . . . . . . . . . . . . . . . . . . . . . . . . . . . . . . . . . . . . . . . . . . . . . . . . . . . . . . . . . . . . . . . . . . . . . . . . . . . . . . . . . . . . . . . . . . . . . . . . . . . . . . . . . . . . . . . . . . . . . . . . . . . . 
+. . . . . . . . . . . . . . . . . . . . . . . . . . . . . . . . . . . . . . . . . . . . . . . . . . . . . . . . . . . . . . . . . . . . . . . . . . . . . . . . . . . . . . . . . . . . . . . . . . . . . . . . . . . . . . . . . . . . . . . . . . . . . . . . . . . . . . . . . . . . . . . . . . . . . . . . . . . . . . . . 
+. . . . . . . . . . . . . . . . . . . . . . . . . . . . . . . . . . . . . . . . . . . . . . . . . . . . . . . . . . . . . . . . . . . . . . . . . . . . . . . . . . . . . . . . . . . . . . . . . . . . . . . . . . . . . . . . . . . . . . . . . . . . . . . . . . . . . . . . . . . . . . . . . . . . . . . . . . . . . . . . 
+. . . . . . . . . . . . . . . . . . . . . . . . . . . . . . . . . . . . . . . . . . . . . . . . . . . . . . . . . . . . . . . . . . . . . . . . . . . . . . . . . . . . . . . . . . . . . . . . . . . . . . . . . . . . . . . . . . . . . . . . . . . . . . . . . . . . . . . . . . . . . . . . . . . . . . . . . . . . . . . . 
+. . . . . . . . . . . . . . . . . . . . . . . . . . . . . . . . . . . . . . . . . . . . . . . . . . . . . . . . . . . . . . . . . . . . . . . . . . . . . . . . . . . . . . . . . . . . . . . . . . . . . . . . . . . . . . . . . . . . . . . . . . . . . . . . . . . . . . . . . . . . . . . . . . . . . . . . . . . . . . . . 
+. . . . . . . . . . . . . . . . . . . . . . . . . . . . . . . . . . . . . . . . . . . . . . . . . . . . . . . . . . . . . . . . . . . . . . . . . . . . . . . . . . . . . . . . . . . . . . . . . . . . . . . . . . . . . . . . . . . . . . . . . . . . . . . . . . . . . . . . . . . . . . . . . . . . . . . . . . . . . . . . 
+. . . . . . . . . . . . . . . . . . . . . . . . . . . . . . . . . . . . . . . . . . . . . . . . . . . . . . . . . . . . . . . . . . . . . . . . . . . . . . . . . . . . . . . . . . . . . . . . . . . . . . . . . . . . . . . . . . . . . . . . . . . . . . . . . . . . . . . . . . . . . . . . . . . . . . . . . . . . . . . . 
+`)
